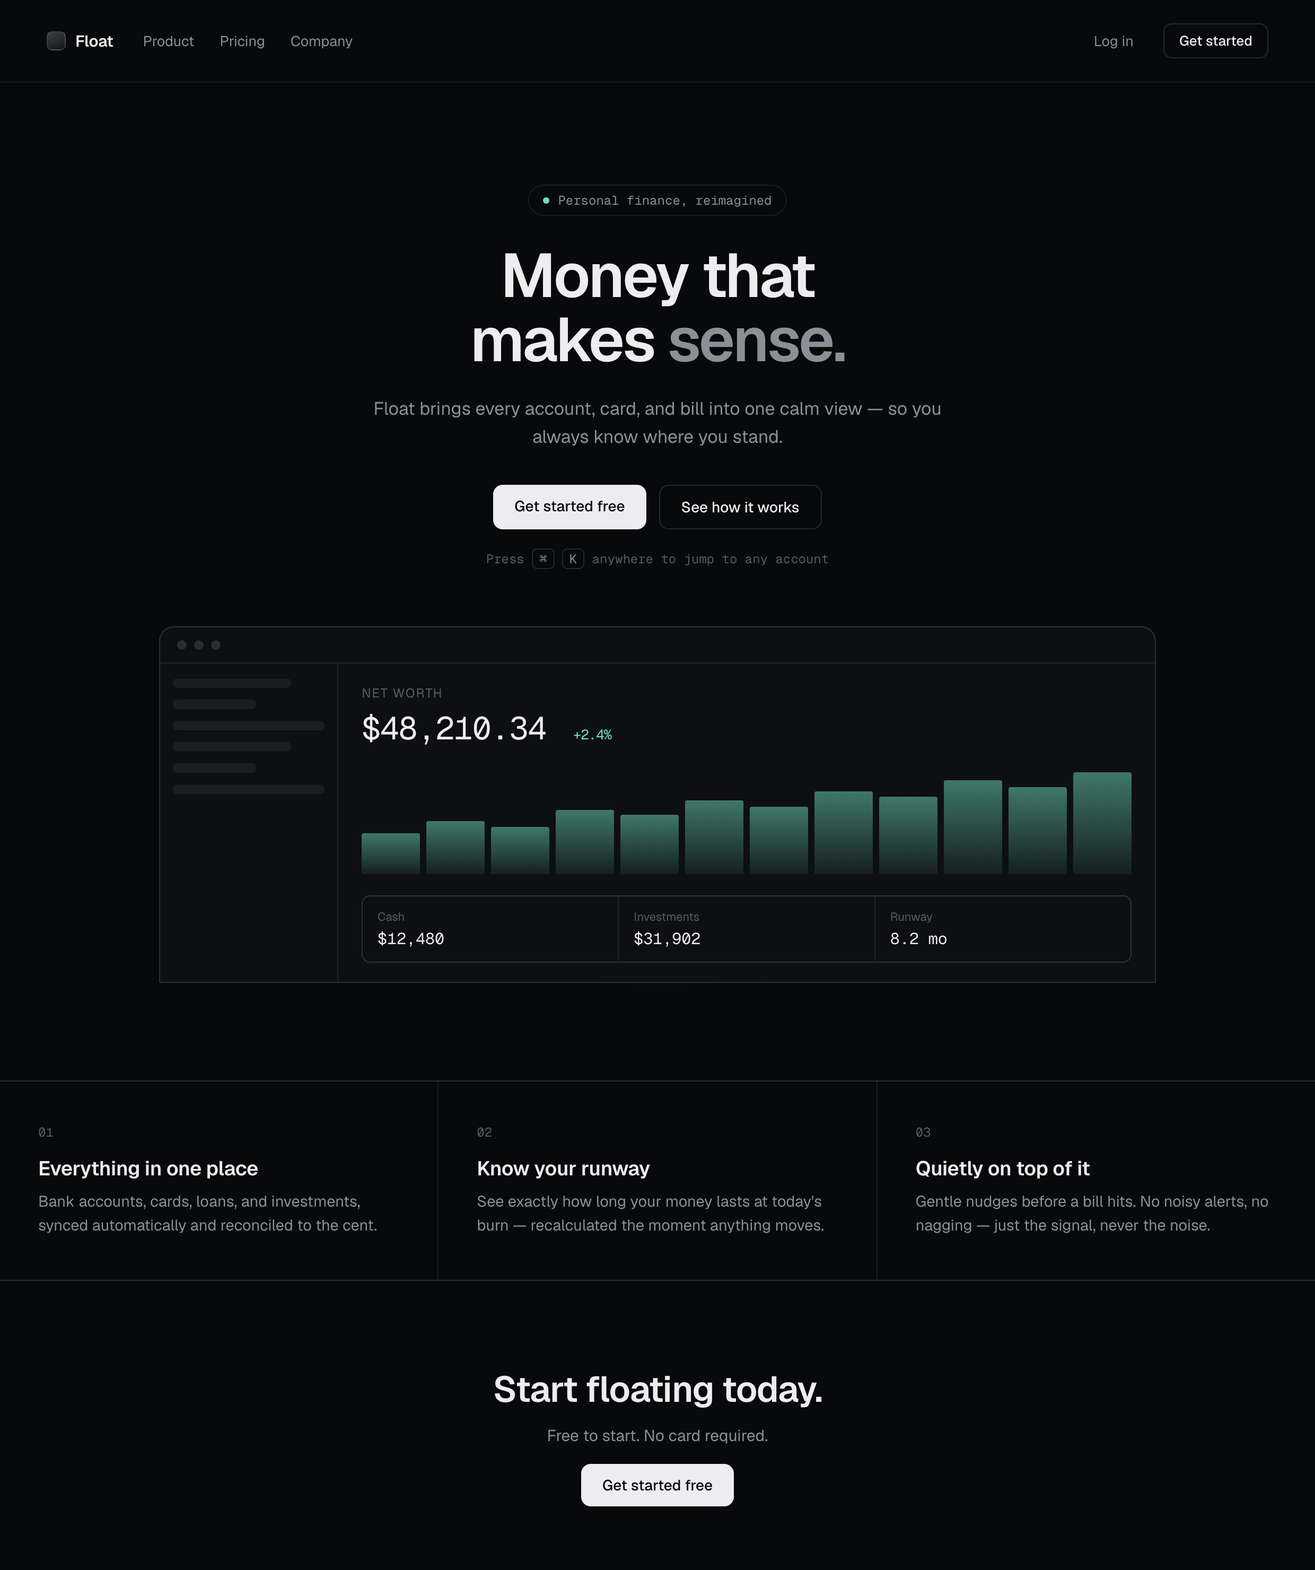
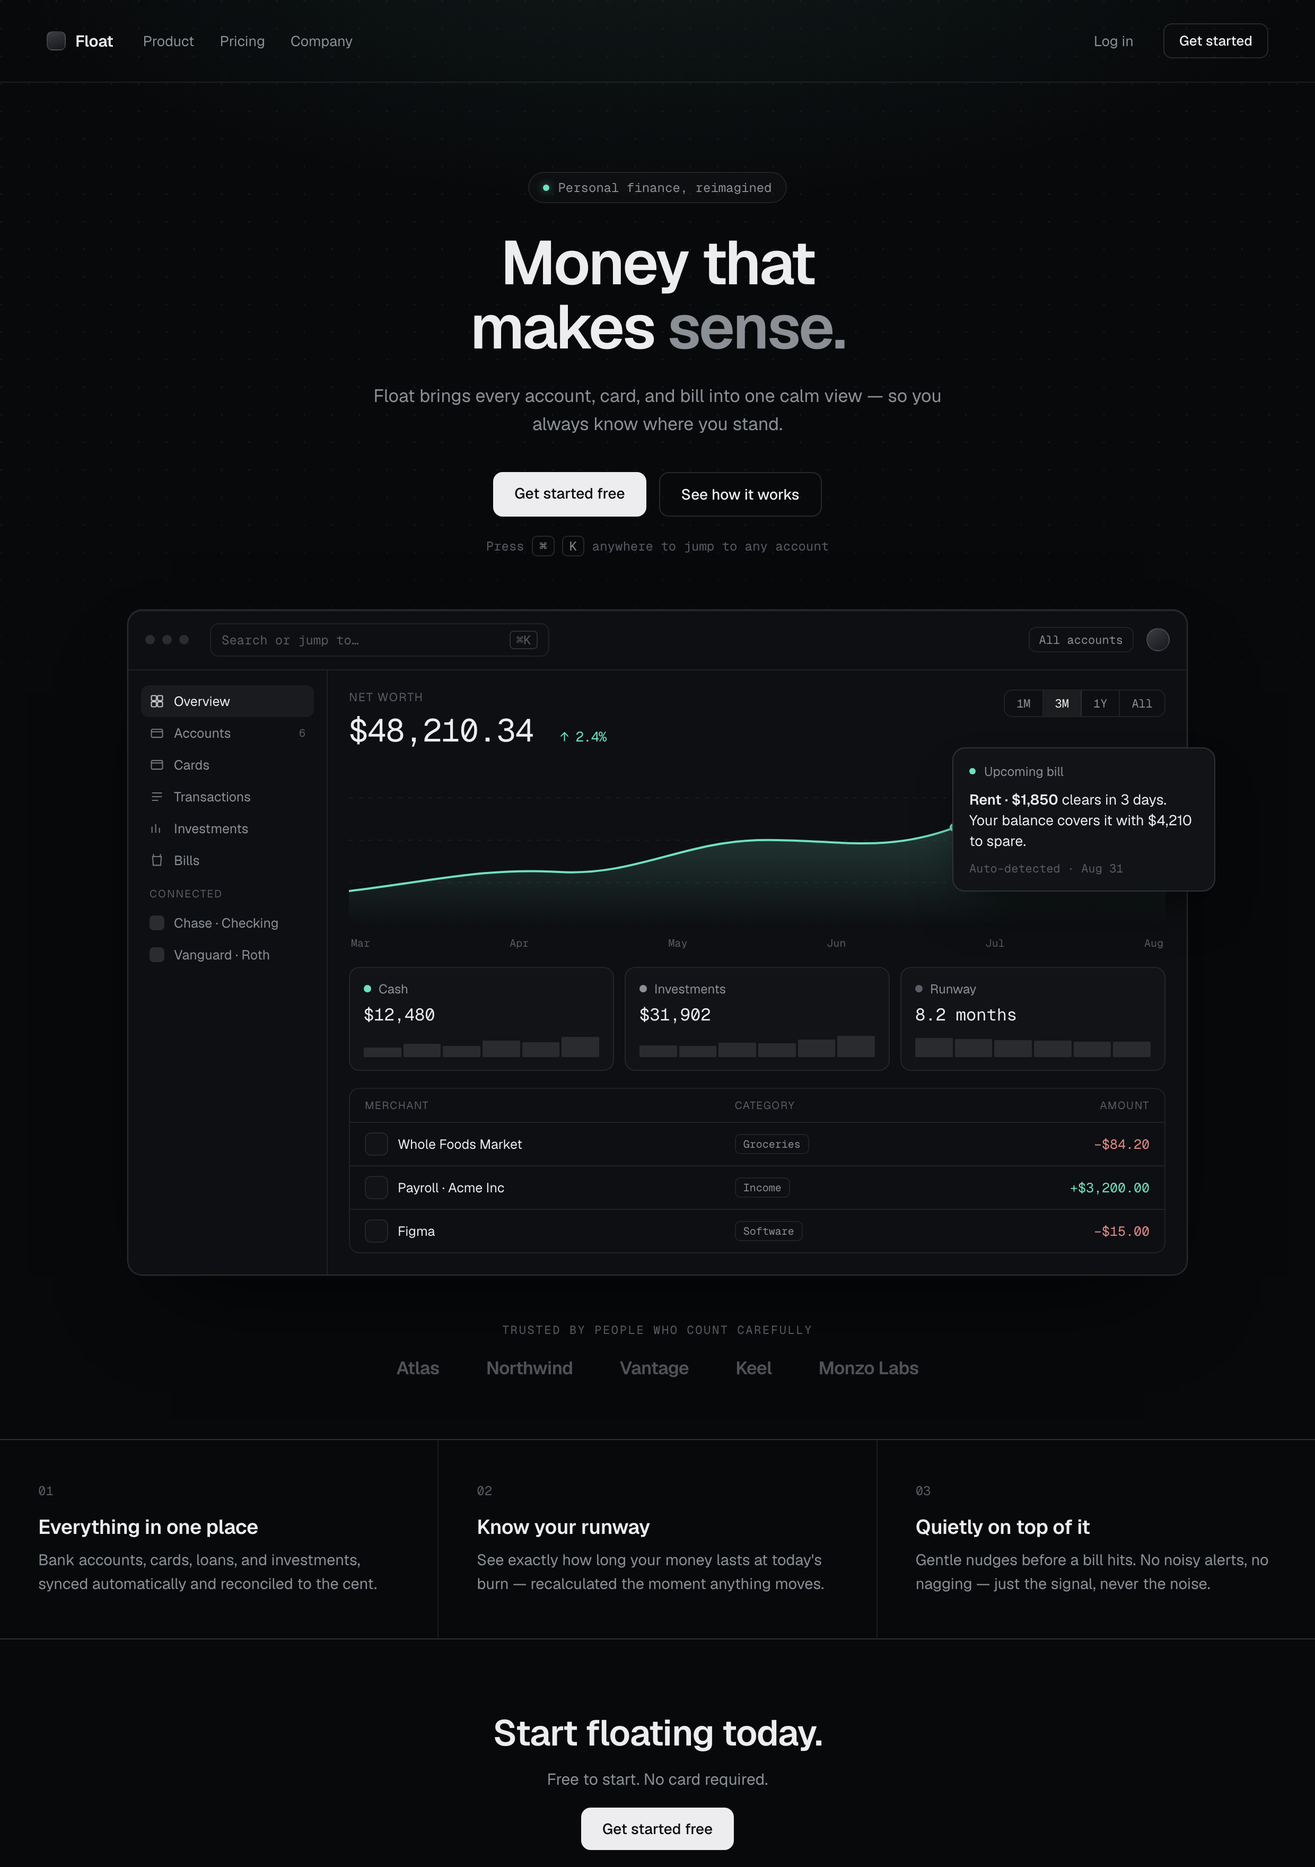
registers: enrich cool-technical voice (dense dashboard, floating chip, dot-grid backdrop, trust row) per gate feedback 'lacked richness'

diff --git a/registers/float-cool-technical.html b/registers/float-cool-technical.html
@@ -12,29 +12,41 @@
      REGISTER: COOL-TECHNICAL — Float landing, constant content.
      Voice grounded in a real cool-technical fintech (Fey): pure
      near-black, restrained off-white sans, ONE near-absent accent,
-     keyboard-craft signal, a glowing dark product shot. The dials:
-     §3 type = Geist, medium weight, tight tracking, moderate hero
-     (not huge — restraint IS the voice). §4 color = cool-tinted
-     near-black neutrals, accent SCARCE (a single cold mint, used
-     once). §6 depth = deep dark + a soft radial glow under the
-     product (it earns the glow), hairline borders, low radius.
-     Density = airy, centered, calm. Signature = the ⌘ keyboard hint.
+     keyboard-craft signal, a glowing dark product shot. Richness in
+     THIS voice comes from DENSITY of considered detail + layered
+     depth (a real dense dashboard, a floating UI chip, a dot-grid
+     backdrop, a muted trust row) — never from louder type or more
+     color. Restraint stays the voice; craft-density supplies the body.
+     §3 Geist, tight tracking, moderate hero. §4 cool near-black, mint
+     scarce. §6 deep dark + earned glow, hairlines, low radius.
      ============================================================ */
   :root {
     --bg:    #08090b;
     --panel: #0e0f12;
+    --panel2:#121317;
     --line:  rgba(255,255,255,.08);
     --line2: rgba(255,255,255,.13);
     --text:  #ededf0;
     --muted: #8b9096;
     --faint: #585c63;
-    --mint:  #6fe0c0;          /* the ONE accent, used once */
+    --mint:  #6fe0c0;          /* the ONE accent, used sparingly */
+    --pos:   #6fe0c0; --neg: #e08a8a;
     --font:  "Geist", -apple-system, BlinkMacSystemFont, sans-serif;
     --mono:  "Geist Mono", ui-monospace, monospace;
   }
   * { box-sizing: border-box; margin: 0; padding: 0; }
   body { font-family: var(--font); background: var(--bg); color: var(--text); -webkit-font-smoothing: antialiased; }
-  .page { width: 1240px; height: 1480px; overflow: hidden; position: relative; }
+  .page { width: 1240px; height: 1760px; overflow: hidden; position: relative; }
+  /* subtle dot-grid + top glow backdrop behind the hero */
+  .backdrop { position: absolute; inset: 0 0 auto 0; height: 760px;
+    background:
+      radial-gradient(900px 360px at 50% -60px, rgba(111,224,192,.07), rgba(111,224,192,0) 70%),
+      radial-gradient(circle at 1px 1px, rgba(255,255,255,.045) 1px, transparent 0);
+    background-size: auto, 26px 26px;
+    -webkit-mask-image: linear-gradient(180deg, #000 0%, #000 55%, transparent 100%);
+            mask-image: linear-gradient(180deg, #000 0%, #000 55%, transparent 100%);
+  }
+  .page > *:not(.backdrop) { position: relative; z-index: 1; }
 
   /* nav */
   .nav { display: flex; align-items: center; gap: 28px; padding: 22px 44px; border-bottom: 1px solid var(--line); }
@@ -46,9 +58,9 @@
   .nav .cta { font-size: 13px; font-weight: 500; padding: 7px 14px; border: 1px solid var(--line2); border-radius: 8px; color: var(--text); }
 
   /* hero */
-  .hero { text-align: center; padding: 96px 0 0; }
-  .eyebrow { display: inline-flex; align-items: center; gap: 8px; font-family: var(--mono); font-size: 12px; color: var(--muted); border: 1px solid var(--line); border-radius: 999px; padding: 6px 13px; }
-  .eyebrow .dot { width: 6px; height: 6px; border-radius: 50%; background: var(--mint); }
+  .hero { text-align: center; padding: 84px 0 0; }
+  .eyebrow { display: inline-flex; align-items: center; gap: 8px; font-family: var(--mono); font-size: 12px; color: var(--muted); border: 1px solid var(--line); border-radius: 999px; padding: 6px 13px; background: rgba(255,255,255,.02); }
+  .eyebrow .dot { width: 6px; height: 6px; border-radius: 50%; background: var(--mint); box-shadow: 0 0 8px rgba(111,224,192,.6); }
   h1 { font-size: 58px; line-height: 1.04; letter-spacing: -.03em; font-weight: 600; margin: 26px 0 0; }
   h1 .q { color: var(--muted); }
   .sub { max-width: 560px; margin: 22px auto 0; font-size: 17px; line-height: 1.55; color: var(--muted); }
@@ -58,42 +70,88 @@
   .kbd-hint { margin: 20px 0 0; font-family: var(--mono); font-size: 12px; color: var(--faint); }
   .kbd-hint kbd { border: 1px solid var(--line2); border-radius: 5px; padding: 1px 6px; color: var(--muted); font-family: var(--mono); }
 
-  /* product shot with glow */
-  .shotwrap { position: relative; margin: 56px auto 0; width: 940px; }
-  .glow { position: absolute; left: 50%; top: 8%; transform: translateX(-50%); width: 620px; height: 320px; background: radial-gradient(ellipse at center, rgba(111,224,192,.16), rgba(111,224,192,0) 70%); filter: blur(8px); }
-  .shot { position: relative; border: 1px solid var(--line2); border-radius: 14px 14px 0 0; background: var(--panel); overflow: hidden; box-shadow: 0 -1px 0 rgba(255,255,255,.04); }
-  .shot .bar { display: flex; align-items: center; gap: 7px; padding: 12px 16px; border-bottom: 1px solid var(--line); }
-  .shot .bar i { width: 9px; height: 9px; border-radius: 50%; background: #2a2c30; display: inline-block; }
-  .shot .body { display: grid; grid-template-columns: 168px 1fr; height: 300px; }
-  .shot .sb { border-right: 1px solid var(--line); padding: 14px 12px; }
-  .shot .sb .r { height: 9px; border-radius: 4px; background: rgba(255,255,255,.06); margin-bottom: 11px; }
-  .shot .sb .r.s { width: 55%; } .shot .sb .r.m { width: 78%; }
-  .shot .main { padding: 20px 22px; }
-  .shot .kpi { font-family: var(--mono); font-size: 30px; letter-spacing: -.02em; color: var(--text); }
-  .shot .kpi small { color: var(--mint); font-size: 13px; margin-left: 8px; }
-  .shot .klabel { font-size: 12px; color: var(--faint); margin-bottom: 6px; text-transform: uppercase; letter-spacing: .08em; }
-  .spark { margin-top: 22px; height: 96px; display: flex; align-items: flex-end; gap: 6px; }
-  .spark i { flex: 1; background: linear-gradient(180deg, rgba(111,224,192,.5), rgba(111,224,192,.08)); border-radius: 2px 2px 0 0; }
-  .row3 { display: grid; grid-template-columns: repeat(3,1fr); gap: 1px; background: var(--line); margin-top: 20px; border: 1px solid var(--line); border-radius: 8px; overflow: hidden; }
-  .row3 .c { background: var(--panel); padding: 12px 14px; }
-  .row3 .c .l { font-size: 11px; color: var(--faint); }
-  .row3 .c .v { font-family: var(--mono); font-size: 15px; margin-top: 4px; }
+  /* product shot — a dense dashboard with a floating chip */
+  .shotwrap { position: relative; margin: 52px auto 0; width: 1000px; }
+  .shot { position: relative; border: 1px solid var(--line2); border-radius: 14px; background: var(--panel); overflow: hidden; box-shadow: 0 40px 90px -40px rgba(0,0,0,.9), 0 0 0 1px rgba(255,255,255,.02), inset 0 1px 0 rgba(255,255,255,.05); }
+  .topbar { display: flex; align-items: center; gap: 12px; padding: 12px 16px; border-bottom: 1px solid var(--line); }
+  .topbar .dots { display: flex; gap: 7px; }
+  .topbar .dots i { width: 9px; height: 9px; border-radius: 50%; background: #2a2c30; }
+  .topbar .search { flex: 1; max-width: 320px; margin-left: 8px; display: flex; align-items: center; gap: 8px; font-size: 12px; color: var(--faint); border: 1px solid var(--line); border-radius: 8px; padding: 6px 10px; font-family: var(--mono); }
+  .topbar .search .k { margin-left: auto; border: 1px solid var(--line2); border-radius: 4px; padding: 0 5px; }
+  .topbar .sp { flex: 1; }
+  .topbar .pill { font-size: 11px; color: var(--muted); border: 1px solid var(--line); border-radius: 7px; padding: 4px 9px; font-family: var(--mono); }
+  .topbar .av { width: 22px; height: 22px; border-radius: 50%; background: linear-gradient(140deg,#3a3d44,#16171a); border: 1px solid var(--line2); }
+
+  .layout { display: grid; grid-template-columns: 188px 1fr; }
+  .side { border-right: 1px solid var(--line); padding: 14px 12px; }
+  .side .grp { font-size: 10px; letter-spacing: .1em; text-transform: uppercase; color: var(--faint); padding: 10px 8px 6px; }
+  .side .it { display: flex; align-items: center; gap: 9px; padding: 7px 8px; border-radius: 7px; font-size: 12.5px; color: var(--muted); }
+  .side .it.on { background: rgba(255,255,255,.05); color: var(--text); }
+  .side .it svg { color: currentColor; opacity: .8; }
+  .side .it .badge { margin-left: auto; font-family: var(--mono); font-size: 10px; color: var(--faint); }
+
+  .main { padding: 18px 20px 20px; }
+  .mhead { display: flex; align-items: flex-start; gap: 16px; }
+  .mhead .klabel { font-size: 11px; color: var(--faint); text-transform: uppercase; letter-spacing: .08em; }
+  .mhead .kpi { font-family: var(--mono); font-size: 30px; letter-spacing: -.02em; margin-top: 5px; }
+  .mhead .kpi small { color: var(--pos); font-size: 13px; margin-left: 8px; }
+  .mhead .seg { margin-left: auto; display: flex; border: 1px solid var(--line); border-radius: 8px; overflow: hidden; font-family: var(--mono); font-size: 11px; }
+  .mhead .seg span { padding: 5px 11px; color: var(--muted); border-right: 1px solid var(--line); }
+  .mhead .seg span:last-child { border-right: none; }
+  .mhead .seg span.on { background: rgba(255,255,255,.06); color: var(--text); }
+
+  .chart { margin-top: 14px; }
+  .accts { display: grid; grid-template-columns: repeat(3,1fr); gap: 10px; margin-top: 16px; }
+  .acard { border: 1px solid var(--line); border-radius: 10px; padding: 12px 13px; background: var(--panel2); }
+  .acard .nm { font-size: 12px; color: var(--muted); display: flex; align-items: center; gap: 7px; }
+  .acard .nm .d { width: 7px; height: 7px; border-radius: 50%; }
+  .acard .v { font-family: var(--mono); font-size: 16px; margin-top: 6px; }
+  .acard .mini { margin-top: 8px; height: 22px; display: flex; align-items: flex-end; gap: 2px; }
+  .acard .mini i { flex: 1; background: rgba(255,255,255,.1); border-radius: 1px; }
+
+  .tx { margin-top: 16px; border: 1px solid var(--line); border-radius: 10px; overflow: hidden; }
+  .tx .h, .tx .r { display: grid; grid-template-columns: 1.6fr 1fr .8fr; gap: 10px; padding: 9px 14px; align-items: center; }
+  .tx .h { font-size: 10px; text-transform: uppercase; letter-spacing: .08em; color: var(--faint); border-bottom: 1px solid var(--line); }
+  .tx .r { border-bottom: 1px solid var(--line); font-size: 12.5px; }
+  .tx .r:last-child { border-bottom: none; }
+  .tx .r .m { display: flex; align-items: center; gap: 9px; color: var(--text); }
+  .tx .r .m .ico { width: 22px; height: 22px; border-radius: 6px; background: var(--panel2); border: 1px solid var(--line); }
+  .tx .r .cat { font-family: var(--mono); font-size: 10px; color: var(--muted); border: 1px solid var(--line); border-radius: 5px; padding: 2px 7px; justify-self: start; }
+  .tx .r .amt { font-family: var(--mono); text-align: right; color: var(--text); }
+  .tx .r .amt.neg { color: var(--neg); }
+  .tx .r .amt.pos { color: var(--pos); }
+
+  /* floating chip overlapping the shot */
+  .chip { position: absolute; right: -26px; top: 130px; width: 248px; background: var(--panel2); border: 1px solid var(--line2); border-radius: 12px; padding: 14px 15px; box-shadow: 0 24px 50px -20px rgba(0,0,0,.85); }
+  .chip .ch { display: flex; align-items: center; gap: 8px; font-size: 12px; color: var(--muted); }
+  .chip .ch .dot { width: 6px; height: 6px; border-radius: 50%; background: var(--mint); }
+  .chip .ct { font-size: 13.5px; margin-top: 9px; line-height: 1.45; }
+  .chip .ct b { color: var(--text); }
+  .chip .meta { font-family: var(--mono); font-size: 11px; color: var(--faint); margin-top: 9px; }
+
+  /* trust/logo row */
+  .trust { text-align: center; margin-top: 44px; }
+  .trust .lbl { font-family: var(--mono); font-size: 11px; letter-spacing: .12em; text-transform: uppercase; color: var(--faint); }
+  .trust .row { display: flex; justify-content: center; gap: 44px; margin-top: 18px; opacity: .55; }
+  .trust .row span { font-size: 17px; font-weight: 600; letter-spacing: -.02em; color: var(--muted); }
 
   /* proof band */
-  .band { display: grid; grid-template-columns: repeat(3,1fr); gap: 1px; background: var(--line); border-top: 1px solid var(--line); border-bottom: 1px solid var(--line); margin-top: 92px; }
+  .band { display: grid; grid-template-columns: repeat(3,1fr); gap: 1px; background: var(--line); border-top: 1px solid var(--line); border-bottom: 1px solid var(--line); margin-top: 56px; }
   .feat { background: var(--bg); padding: 40px 36px; }
   .feat .n { font-family: var(--mono); font-size: 12px; color: var(--faint); }
   .feat h3 { font-size: 19px; font-weight: 600; letter-spacing: -.01em; margin: 14px 0 8px; }
   .feat p { font-size: 14.5px; line-height: 1.55; color: var(--muted); }
 
   /* closing */
-  .closing { text-align: center; padding: 80px 0 0; }
+  .closing { text-align: center; padding: 66px 0 0; }
   .closing h2 { font-size: 34px; font-weight: 600; letter-spacing: -.02em; }
   .closing .sub2 { font-size: 15px; color: var(--muted); margin: 12px 0 26px; }
 </style>
 </head>
 <body>
   <div class="page">
+    <div class="backdrop"></div>
+
     <div class="nav">
       <div class="brand"><span class="mk"></span> Float</div>
       <div class="links"><span>Product</span><span>Pricing</span><span>Company</span></div>
@@ -114,27 +172,77 @@
     </div>
 
     <div class="shotwrap">
-      <div class="glow"></div>
       <div class="shot">
-        <div class="bar"><i></i><i></i><i></i></div>
-        <div class="body">
-          <div class="sb">
-            <div class="r m"></div><div class="r s"></div><div class="r"></div><div class="r m"></div><div class="r s"></div><div class="r"></div>
+        <div class="topbar">
+          <div class="dots"><i></i><i></i><i></i></div>
+          <div class="search">Search or jump to… <span class="k">⌘K</span></div>
+          <span class="sp"></span>
+          <span class="pill">All accounts</span>
+          <span class="av"></span>
+        </div>
+        <div class="layout">
+          <div class="side">
+            <div class="it on"><svg width="14" height="14" viewBox="0 0 24 24" fill="none" stroke="currentColor" stroke-width="1.8"><rect x="3" y="3" width="8" height="8" rx="1.5"/><rect x="13" y="3" width="8" height="8" rx="1.5"/><rect x="3" y="13" width="8" height="8" rx="1.5"/><rect x="13" y="13" width="8" height="8" rx="1.5"/></svg> Overview</div>
+            <div class="it"><svg width="14" height="14" viewBox="0 0 24 24" fill="none" stroke="currentColor" stroke-width="1.8"><rect x="3" y="6" width="18" height="13" rx="2"/><path d="M3 10h18"/></svg> Accounts <span class="badge">6</span></div>
+            <div class="it"><svg width="14" height="14" viewBox="0 0 24 24" fill="none" stroke="currentColor" stroke-width="1.8"><rect x="3" y="5" width="18" height="14" rx="2"/><path d="M3 9h18"/></svg> Cards</div>
+            <div class="it"><svg width="14" height="14" viewBox="0 0 24 24" fill="none" stroke="currentColor" stroke-width="1.8"><path d="M4 6h16M4 12h16M4 18h10"/></svg> Transactions</div>
+            <div class="it"><svg width="14" height="14" viewBox="0 0 24 24" fill="none" stroke="currentColor" stroke-width="1.8"><path d="M4 19V9M10 19V5M16 19v-8"/></svg> Investments</div>
+            <div class="it"><svg width="14" height="14" viewBox="0 0 24 24" fill="none" stroke="currentColor" stroke-width="1.8"><path d="M6 2l1 4M18 2l-1 4M5 6h14l-1 14H6z"/></svg> Bills</div>
+            <div class="grp">Connected</div>
+            <div class="it"><span class="d" style="width:14px;height:14px;border-radius:4px;background:#2a2c30;display:inline-block"></span> Chase · Checking</div>
+            <div class="it"><span class="d" style="width:14px;height:14px;border-radius:4px;background:#2a2c30;display:inline-block"></span> Vanguard · Roth</div>
           </div>
           <div class="main">
-            <div class="klabel">Net worth</div>
-            <div class="kpi">$48,210.34 <small>+2.4%</small></div>
-            <div class="spark">
-              <i style="height:40%"></i><i style="height:52%"></i><i style="height:46%"></i><i style="height:63%"></i><i style="height:58%"></i><i style="height:72%"></i><i style="height:66%"></i><i style="height:81%"></i><i style="height:76%"></i><i style="height:92%"></i><i style="height:85%"></i><i style="height:100%"></i>
+            <div class="mhead">
+              <div>
+                <div class="klabel">Net worth</div>
+                <div class="kpi">$48,210.34 <small>↑ 2.4%</small></div>
+              </div>
+              <div class="seg"><span>1M</span><span class="on">3M</span><span>1Y</span><span>All</span></div>
             </div>
-            <div class="row3">
-              <div class="c"><div class="l">Cash</div><div class="v">$12,480</div></div>
-              <div class="c"><div class="l">Investments</div><div class="v">$31,902</div></div>
-              <div class="c"><div class="l">Runway</div><div class="v">8.2 mo</div></div>
+            <div class="chart">
+              <svg width="100%" height="150" viewBox="0 0 660 150" preserveAspectRatio="none">
+                <defs>
+                  <linearGradient id="ar" x1="0" y1="0" x2="0" y2="1">
+                    <stop offset="0" stop-color="#6fe0c0" stop-opacity=".28"/>
+                    <stop offset="1" stop-color="#6fe0c0" stop-opacity="0"/>
+                  </linearGradient>
+                </defs>
+                <line x1="0" y1="30" x2="660" y2="30" stroke="rgba(255,255,255,.05)" stroke-dasharray="3 5"/>
+                <line x1="0" y1="70" x2="660" y2="70" stroke="rgba(255,255,255,.05)" stroke-dasharray="3 5"/>
+                <line x1="0" y1="110" x2="660" y2="110" stroke="rgba(255,255,255,.05)" stroke-dasharray="3 5"/>
+                <path d="M0,118 C70,108 110,96 170,100 C230,104 270,72 330,70 C390,68 430,84 490,58 C540,38 600,30 660,22 L660,150 L0,150 Z" fill="url(#ar)"/>
+                <path d="M0,118 C70,108 110,96 170,100 C230,104 270,72 330,70 C390,68 430,84 490,58 C540,38 600,30 660,22" fill="none" stroke="#6fe0c0" stroke-width="2"/>
+                <circle cx="490" cy="58" r="3.5" fill="#0e0f12" stroke="#6fe0c0" stroke-width="2"/>
+              </svg>
+              <div style="display:flex;justify-content:space-between;font-family:var(--mono);font-size:10px;color:var(--faint);margin-top:6px;padding:0 2px">
+                <span>Mar</span><span>Apr</span><span>May</span><span>Jun</span><span>Jul</span><span>Aug</span>
+              </div>
+            </div>
+            <div class="accts">
+              <div class="acard"><div class="nm"><span class="d" style="background:#6fe0c0"></span> Cash</div><div class="v">$12,480</div><div class="mini"><i style="height:40%"></i><i style="height:55%"></i><i style="height:48%"></i><i style="height:70%"></i><i style="height:62%"></i><i style="height:85%"></i></div></div>
+              <div class="acard"><div class="nm"><span class="d" style="background:#8b9096"></span> Investments</div><div class="v">$31,902</div><div class="mini"><i style="height:50%"></i><i style="height:46%"></i><i style="height:60%"></i><i style="height:58%"></i><i style="height:75%"></i><i style="height:90%"></i></div></div>
+              <div class="acard"><div class="nm"><span class="d" style="background:#5a5e66"></span> Runway</div><div class="v">8.2 months</div><div class="mini"><i style="height:80%"></i><i style="height:76%"></i><i style="height:72%"></i><i style="height:70%"></i><i style="height:66%"></i><i style="height:64%"></i></div></div>
+            </div>
+            <div class="tx">
+              <div class="h"><span>Merchant</span><span>Category</span><span style="text-align:right">Amount</span></div>
+              <div class="r"><span class="m"><span class="ico"></span> Whole Foods Market</span><span class="cat">Groceries</span><span class="amt neg">−$84.20</span></div>
+              <div class="r"><span class="m"><span class="ico"></span> Payroll · Acme Inc</span><span class="cat">Income</span><span class="amt pos">+$3,200.00</span></div>
+              <div class="r"><span class="m"><span class="ico"></span> Figma</span><span class="cat">Software</span><span class="amt neg">−$15.00</span></div>
             </div>
           </div>
         </div>
       </div>
+      <div class="chip">
+        <div class="ch"><span class="dot"></span> Upcoming bill</div>
+        <div class="ct"><b>Rent · $1,850</b> clears in 3 days. Your balance covers it with $4,210 to spare.</div>
+        <div class="meta">Auto-detected · Aug 31</div>
+      </div>
+    </div>
+
+    <div class="trust">
+      <div class="lbl">Trusted by people who count carefully</div>
+      <div class="row"><span>Atlas</span><span>Northwind</span><span>Vantage</span><span>Keel</span><span>Monzo Labs</span></div>
     </div>
 
     <div class="band">
